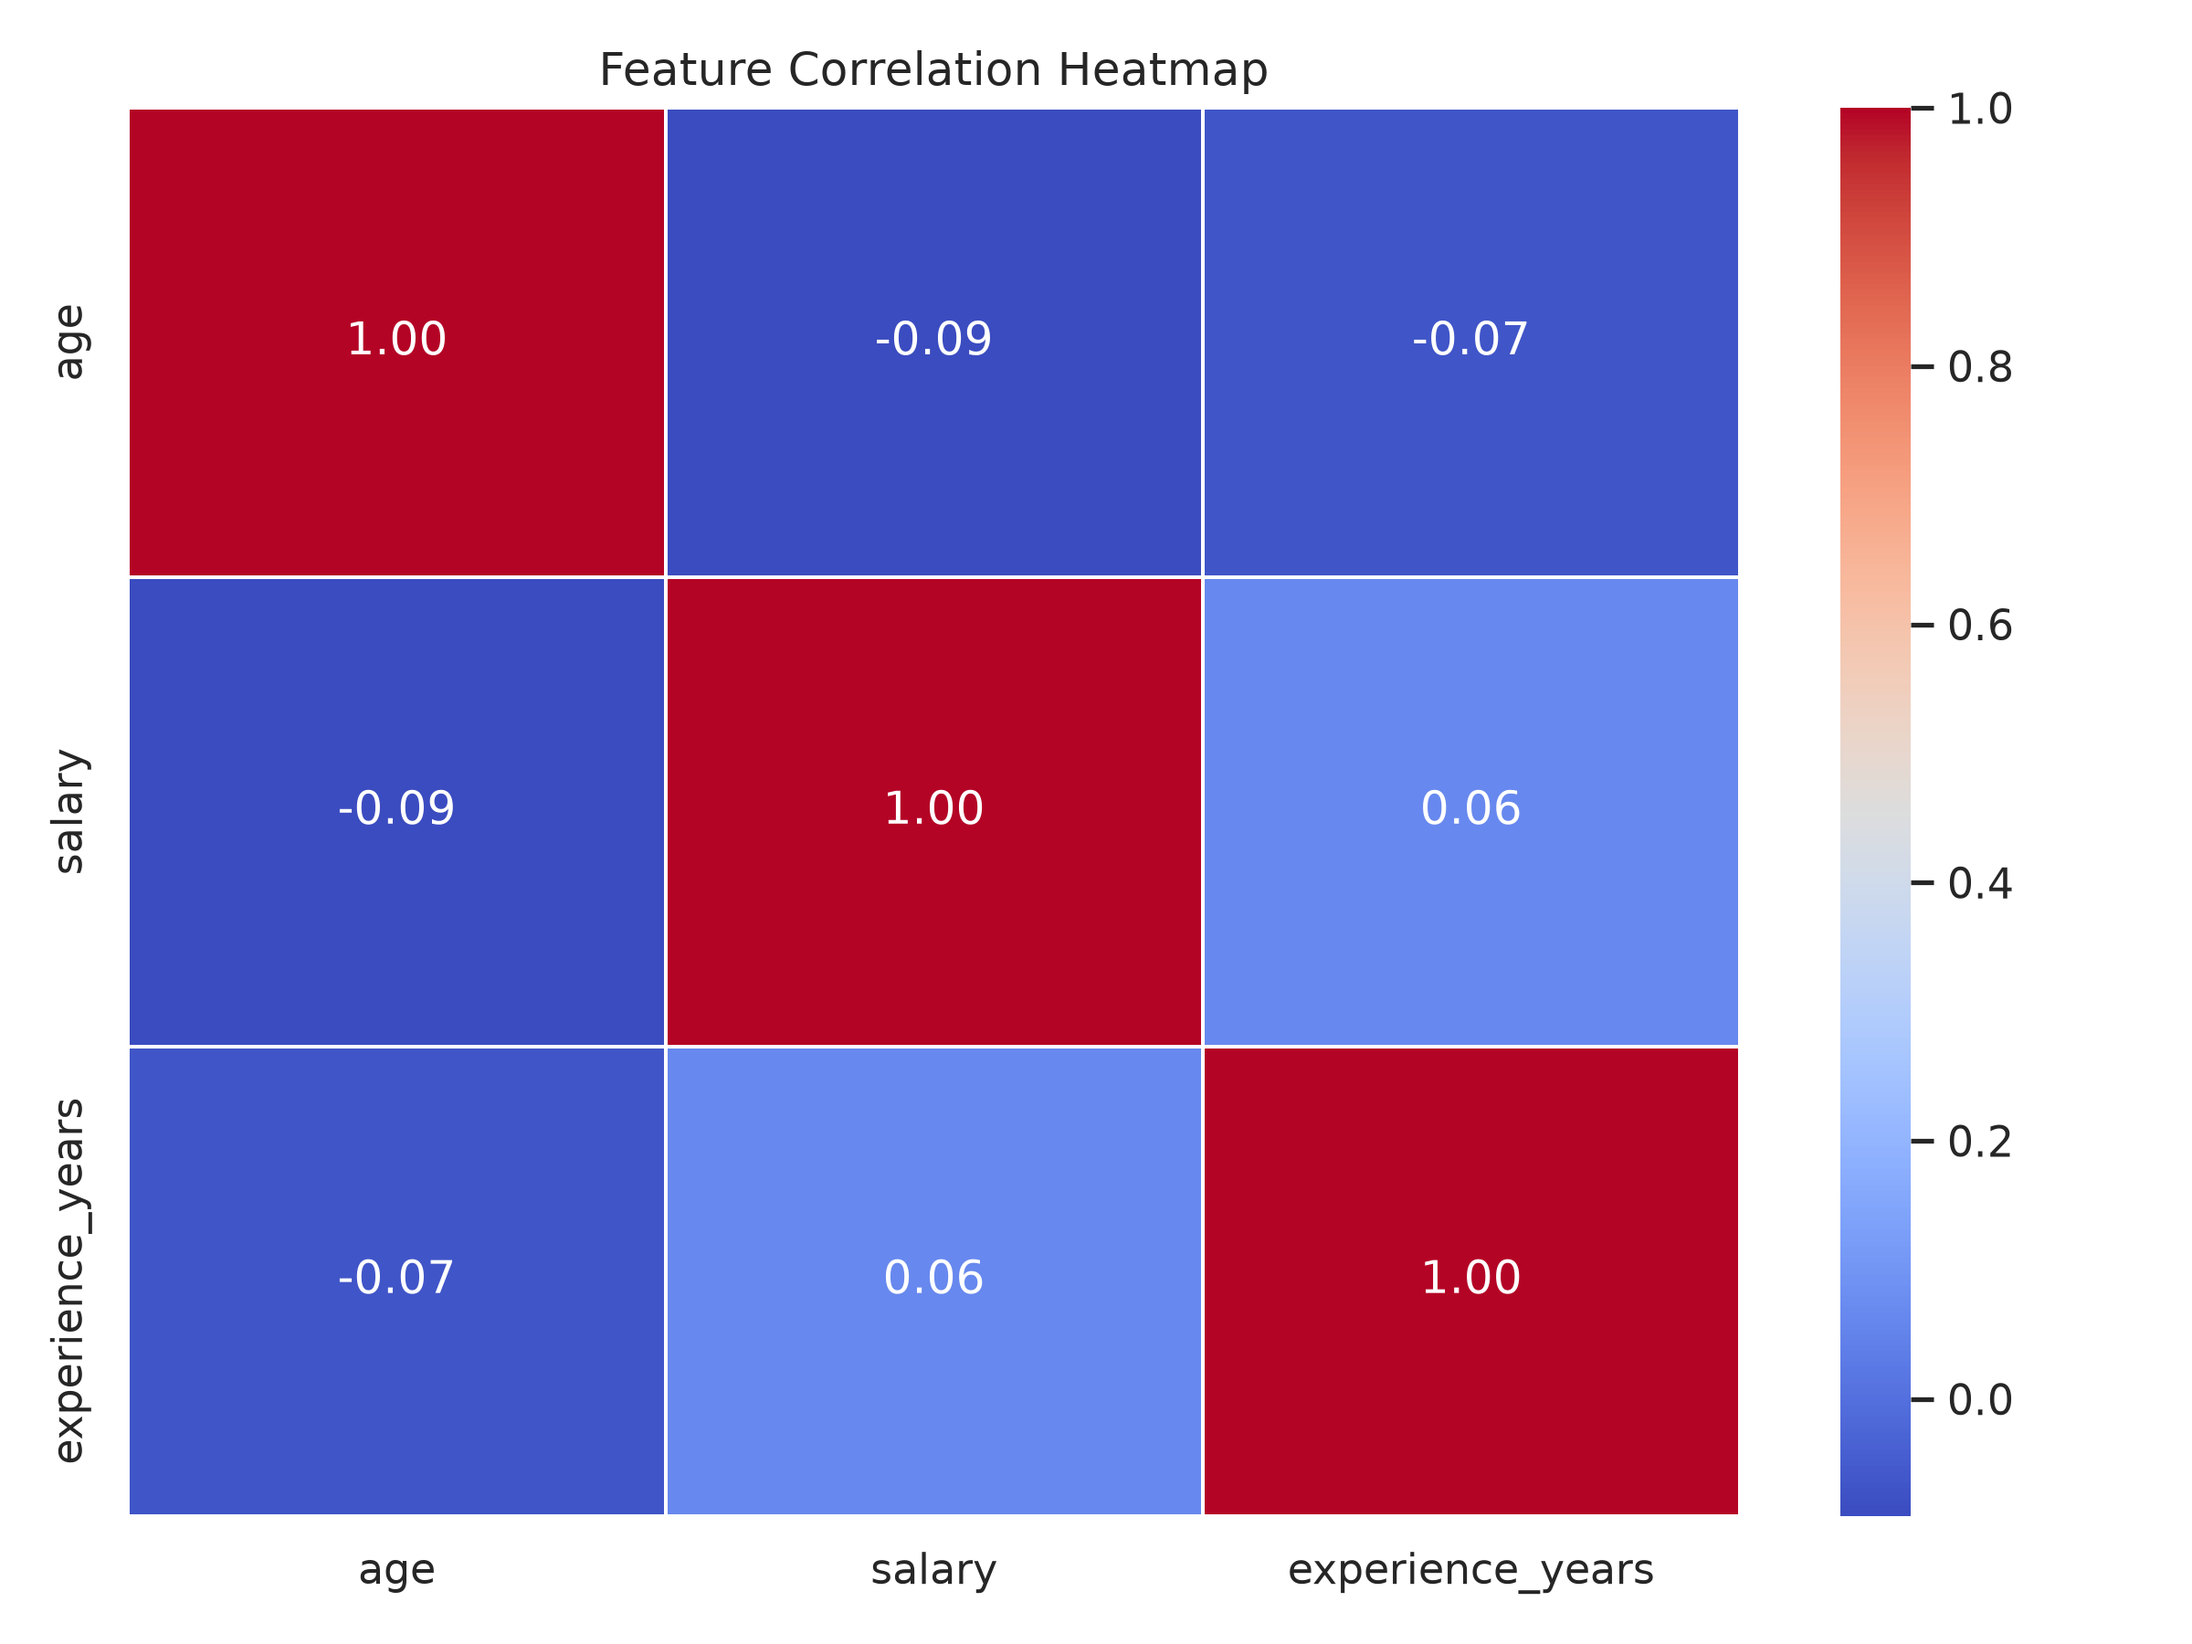
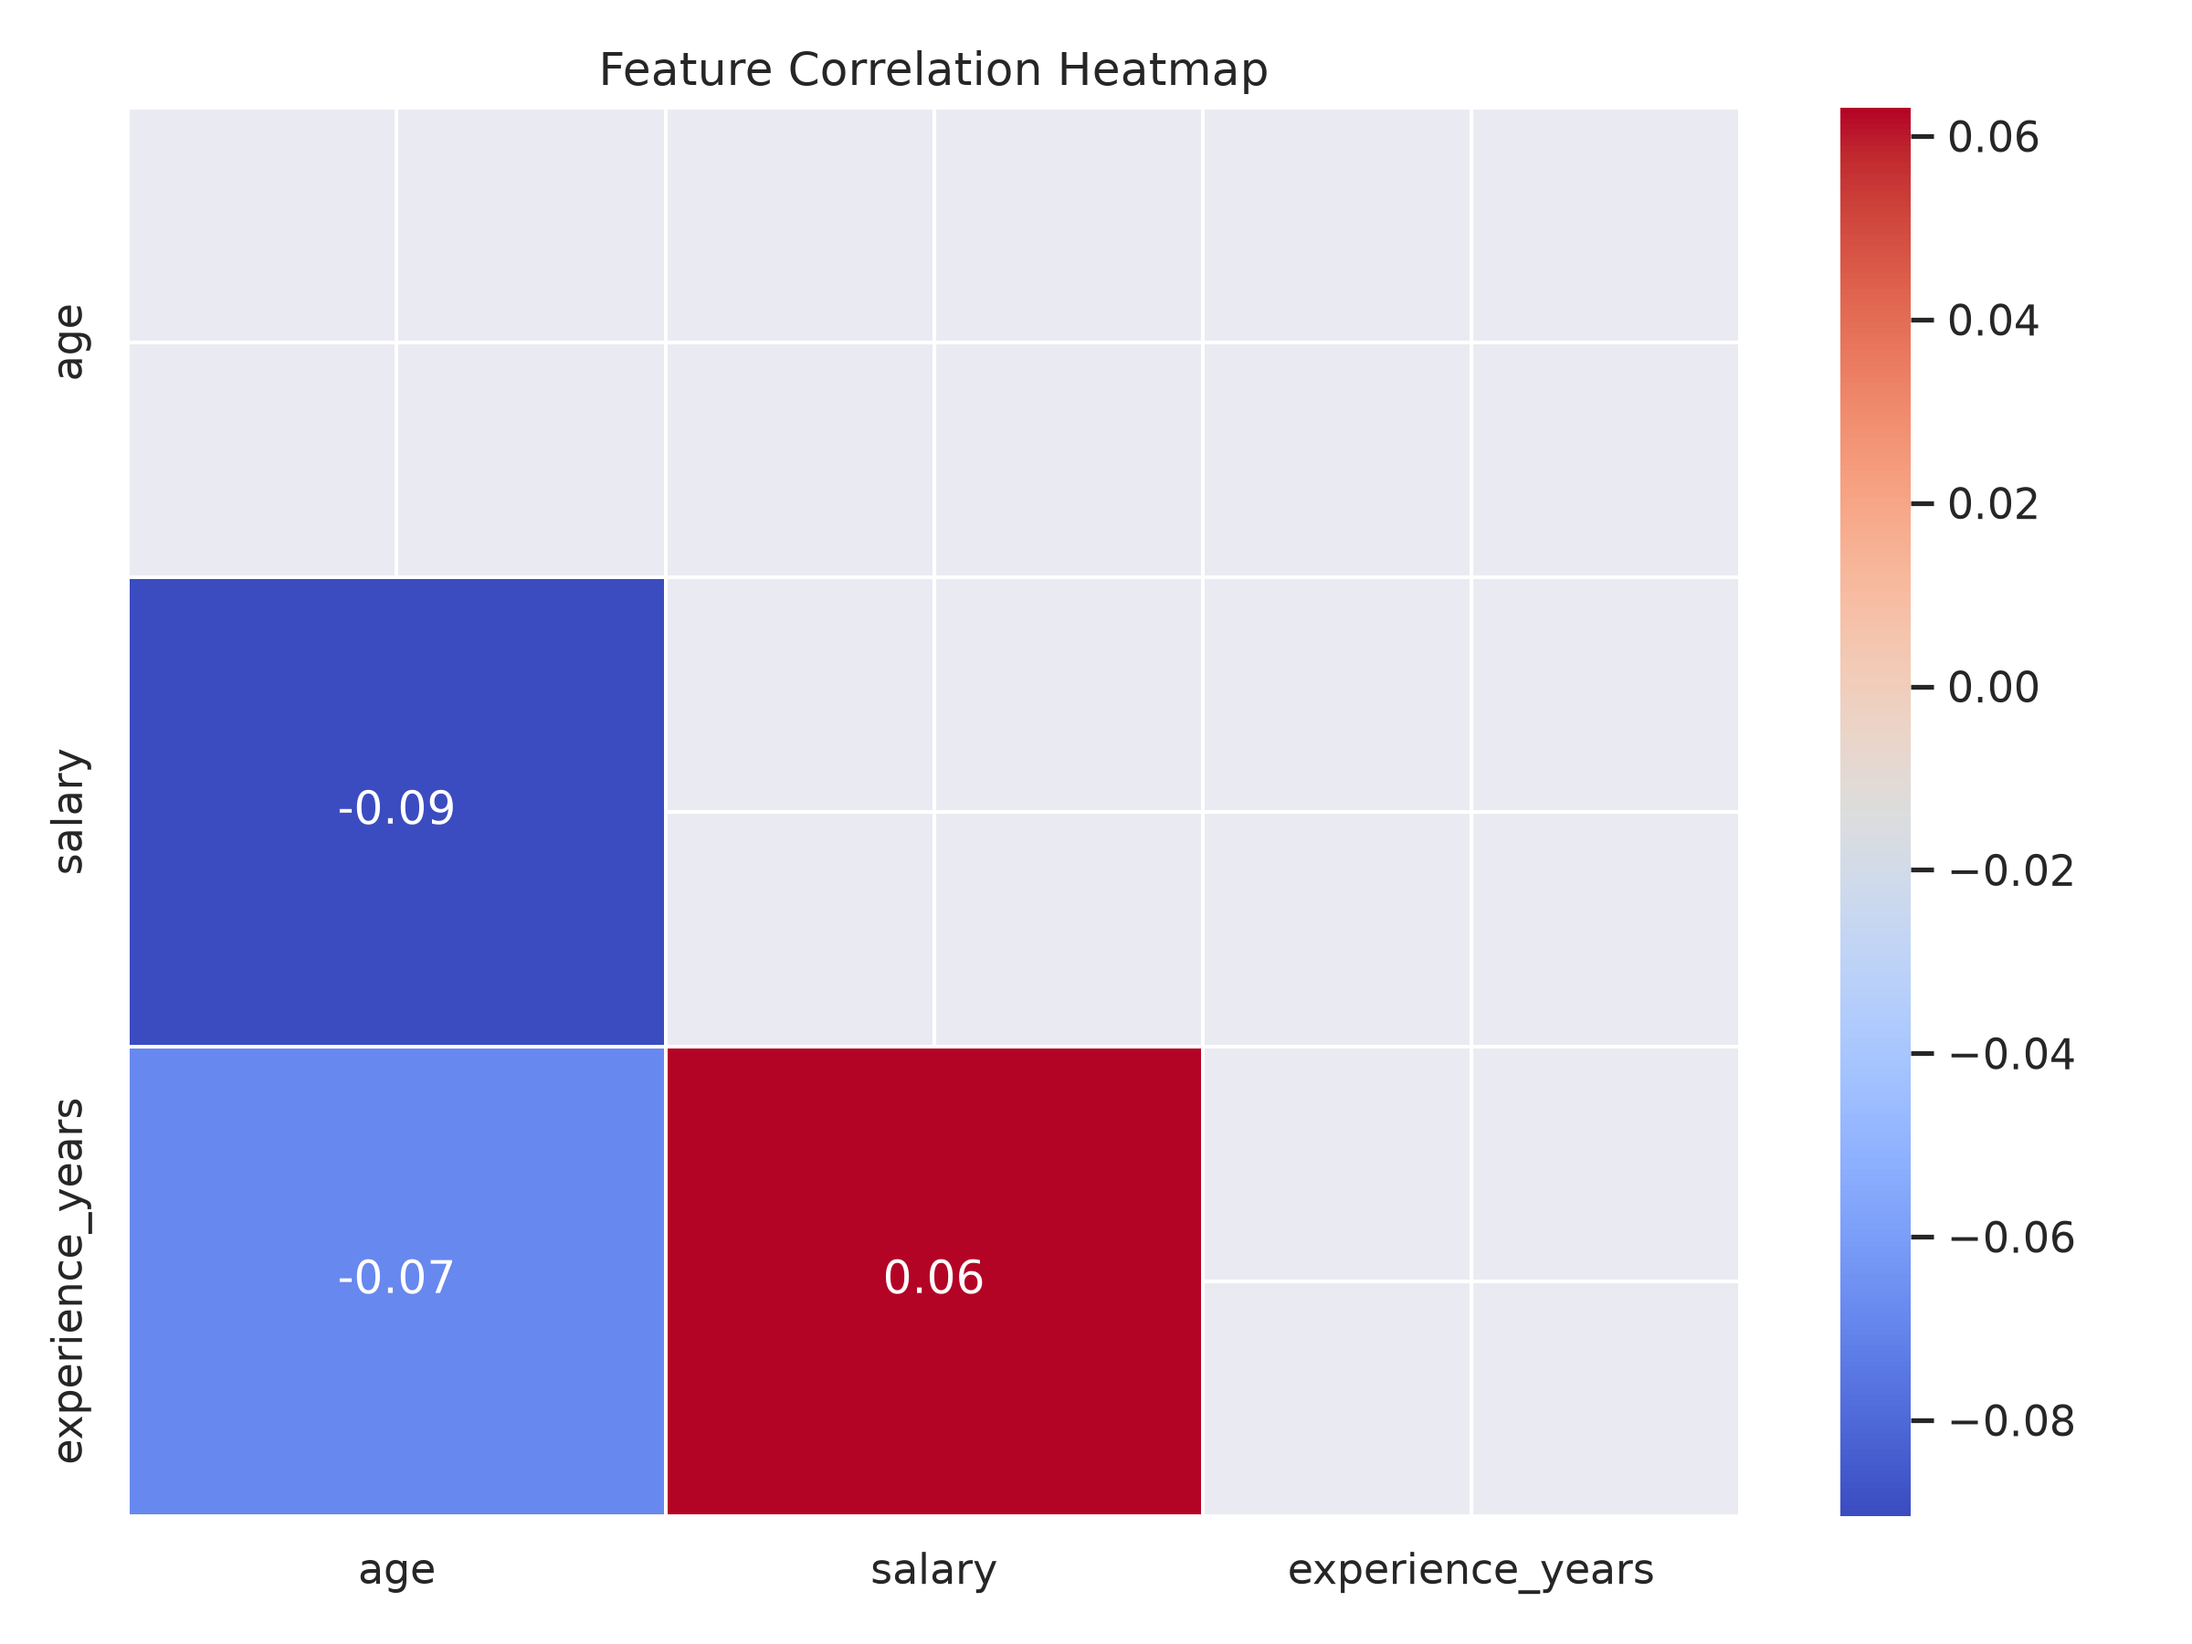
feat(visualization): enhance correlation heatmap and pairplot with improved styling and mask

diff --git a/phase-5-visualization-math/week1_matplotlib/02_seaborn_eda.py b/phase-5-visualization-math/week1_matplotlib/02_seaborn_eda.py
@@ -29,13 +29,19 @@ def create_dataset():
 def plot_correlation_heatmap(df):
     """Create and save a correlation heatmap."""
 
-    # Select numeric columns and calculate correlation
+    # Calculate correlation matrix
     correlation = df.corr(numeric_only=True)
+
+    # Hide the redundant upper triangle
+    mask = np.triu(
+        np.ones_like(correlation, dtype=bool)
+    )
 
     plt.figure(figsize=(8, 6))
 
     sns.heatmap(
         correlation,
+        mask=mask,
         annot=True,
         fmt=".2f",
         cmap="coolwarm",
@@ -45,7 +51,11 @@ def plot_correlation_heatmap(df):
     plt.title("Feature Correlation Heatmap")
     plt.tight_layout()
 
-    plt.savefig("correlation_heatmap.png", dpi=300)
+    plt.savefig(
+        "correlation_heatmap.png",
+        dpi=300
+    )
+
     plt.close()
 
 
@@ -58,10 +68,12 @@ def plot_pairplot(df):
         "experience_years"
     ]
 
+    # Show only lower triangle + diagonal
     grid = sns.pairplot(
         df,
         vars=numeric_columns,
-        hue="department"
+        hue="department",
+        corner=True
     )
 
     grid.fig.suptitle(
@@ -95,7 +107,11 @@ def plot_salary_boxplot(df):
 
     plt.tight_layout()
 
-    plt.savefig("salary_boxplot.png", dpi=300)
+    plt.savefig(
+        "salary_boxplot.png",
+        dpi=300
+    )
+
     plt.close()
 
 
@@ -117,7 +133,11 @@ def plot_salary_distribution(df):
 
     plt.tight_layout()
 
-    plt.savefig("salary_distribution.png", dpi=300)
+    plt.savefig(
+        "salary_distribution.png",
+        dpi=300
+    )
+
     plt.close()
 
 
@@ -127,7 +147,6 @@ def main():
     # Create fake dataset
     df = create_dataset()
 
-    # Display basic information
     print("Dataset shape:")
     print(df.shape)
 
